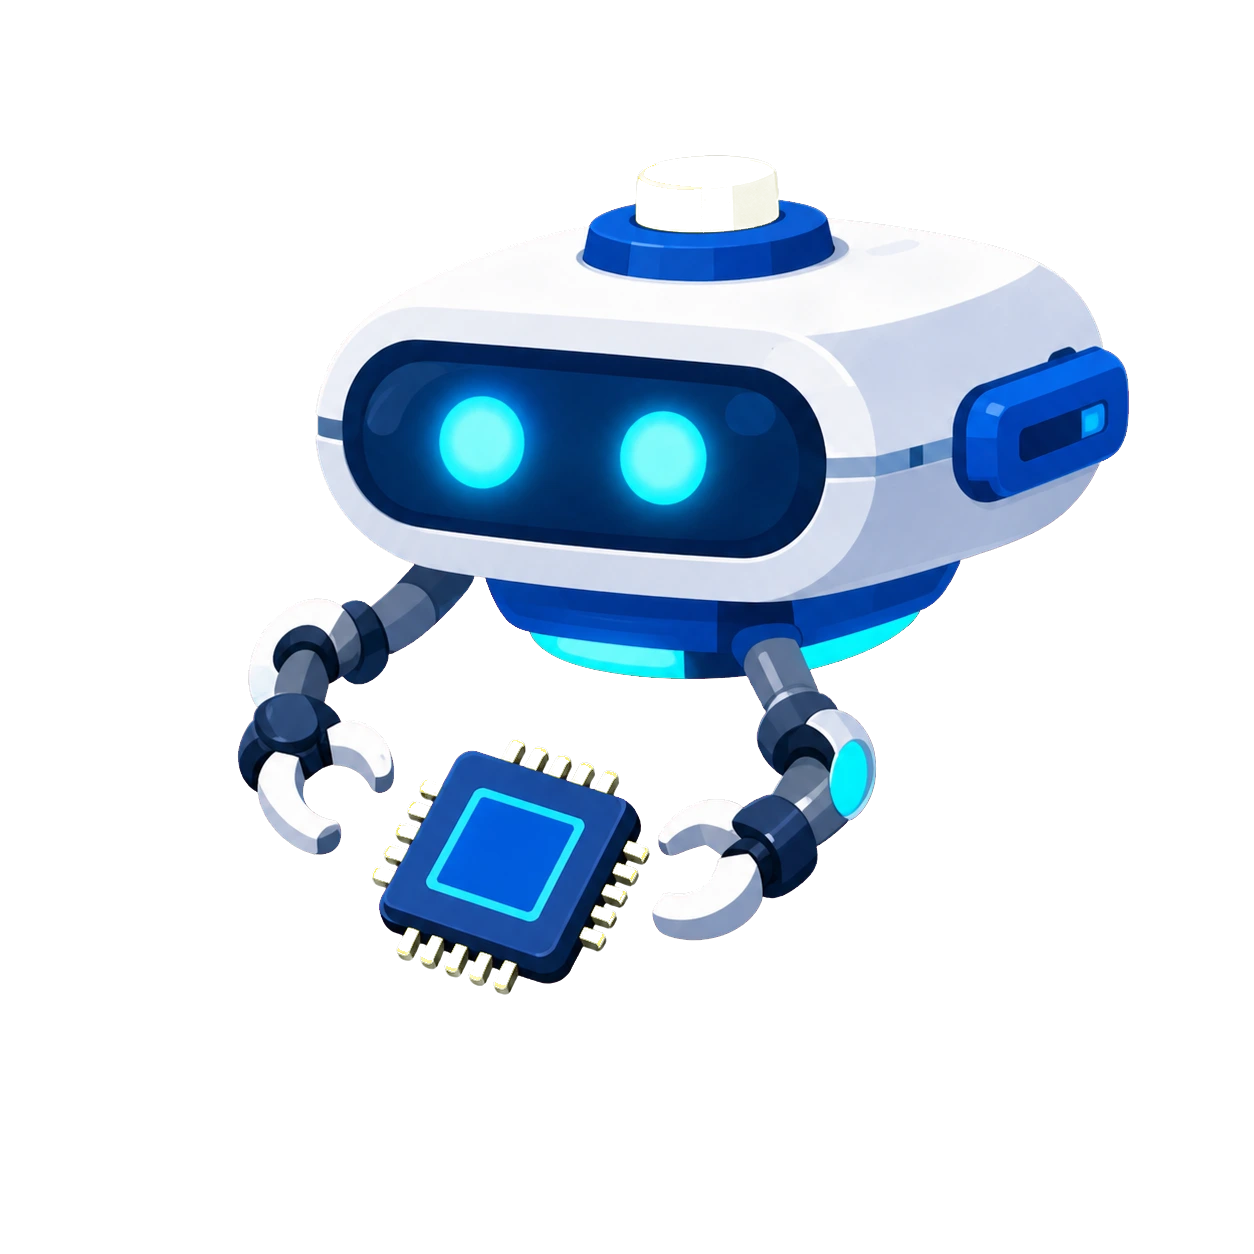
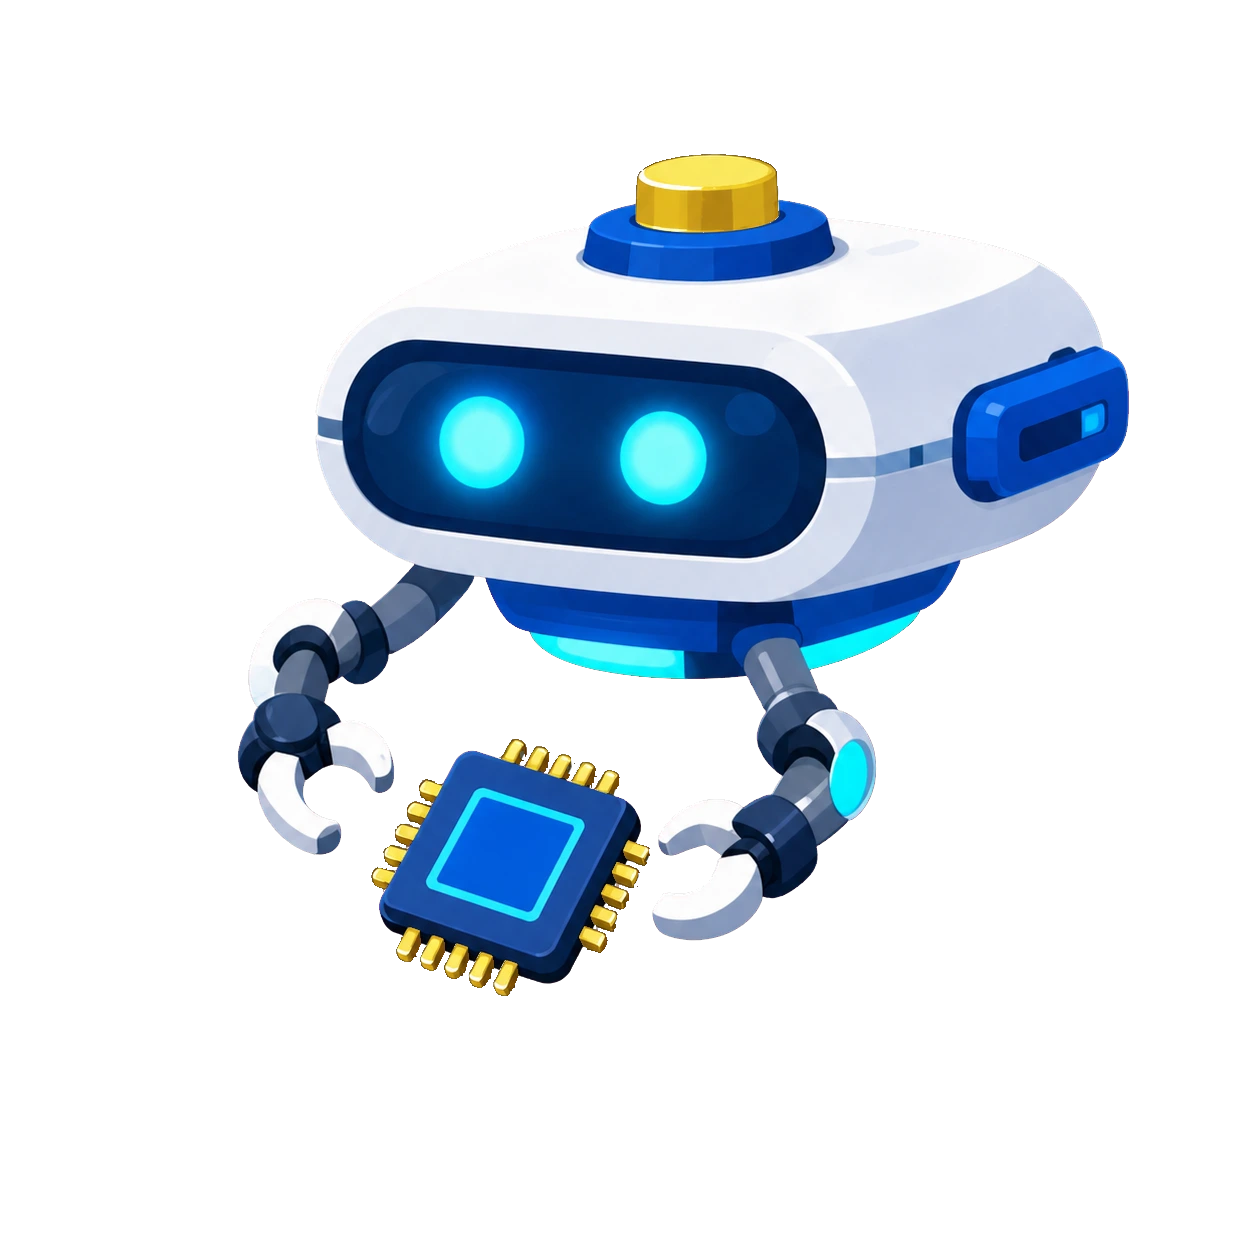
행성 소품 14장 색 포인트 보강(9/8 변경본 확정) + Phase 9 탐방 9-2~9-4 진행 기록
과학 소품 대부분에 노랑·금색 포인트, 수학 고1-2 버섯집 보라 채도, 과학 고1-1 탐사 테이블 나무색.

diff --git a/docs/phase9-brief.md b/docs/phase9-brief.md
@@ -9,10 +9,16 @@
 - **9-1 (2026-08-22~23) 완료** — 수학 **개념 훈련**(초6-1 · 1단원 분수의 나눗셈 ·
   (2) (대분수)÷(자연수)). 개념 학습 → 기초 연산 → 훈련 결과까지 완주하며 탐방하고,
   캡쳐 8장을 떴다. 발견 11건 · 가져올 것 3건 · 우리 대응 없는 것 3건.
-- **9-2 (예정)** — 같은 단원의 **유형 훈련**. 아래 「9-2 지시」 참고
-- **9-3 (예정)** — 같은 단원의 **서술형 훈련**
-- **9-4 (예정)** — **과학** 한 단원 (조판 종류만 확인, 콘텐츠 품질은 안 봄)
-- 그 뒤 홈 · 과제센터 · 월간보고서, 그리고 **장표 계획**
+- **9-2 (2026-09-08) 완료** — 같은 단원의 **유형 훈련**. STEP 4를 완주하고 스텝 결과 ·
+  해설 · 훈련 결과 · 오답노트까지 봤다. 캡쳐 13장(09~21). 발견 ⑫~㉓ · 가져올 것 3건 추가.
+  아래 「9-2 지시」는 그때 쓴 것이라 그대로 둔다
+- **9-3 (2026-09-08) 완료** — 같은 단원의 **서술형 훈련** 3스텝 전부. 세 단계가 서로 다른
+  활동이라는 것이 소득이다. 캡쳐 32장(22~53). 발견 ㉔~㊺ · 가져올 것 4건 추가
+- **9-4 (2026-09-08) 완료** — **과학** 초6-2 2단원 (2) 물질의 연소. 조판 종류만 봤다.
+  캡쳐 16장(54~69, 접두어 `live-sci-`). 발견 ㊻~(55). **아래첨자·화학식이 하나도 없었고,
+  조판 부담이 라벨이 박힌 실험 사진 쪽에 있다**는 것이 결론. 그래프·회로도는 미확인
+- **9-5 (예정)** — 홈 · 과제센터 · 월간보고서
+- 그 뒤 **장표 계획**
 
 **기록은 옵시디언 `3 포트폴리오/현안 탐방 기록 (RM).md`에 누적한다.** 본 노트
 (`리딩수학과학 (RM).md`)가 아니다 — 탐방 기록은 계속 자라서 따로 뺐다.
